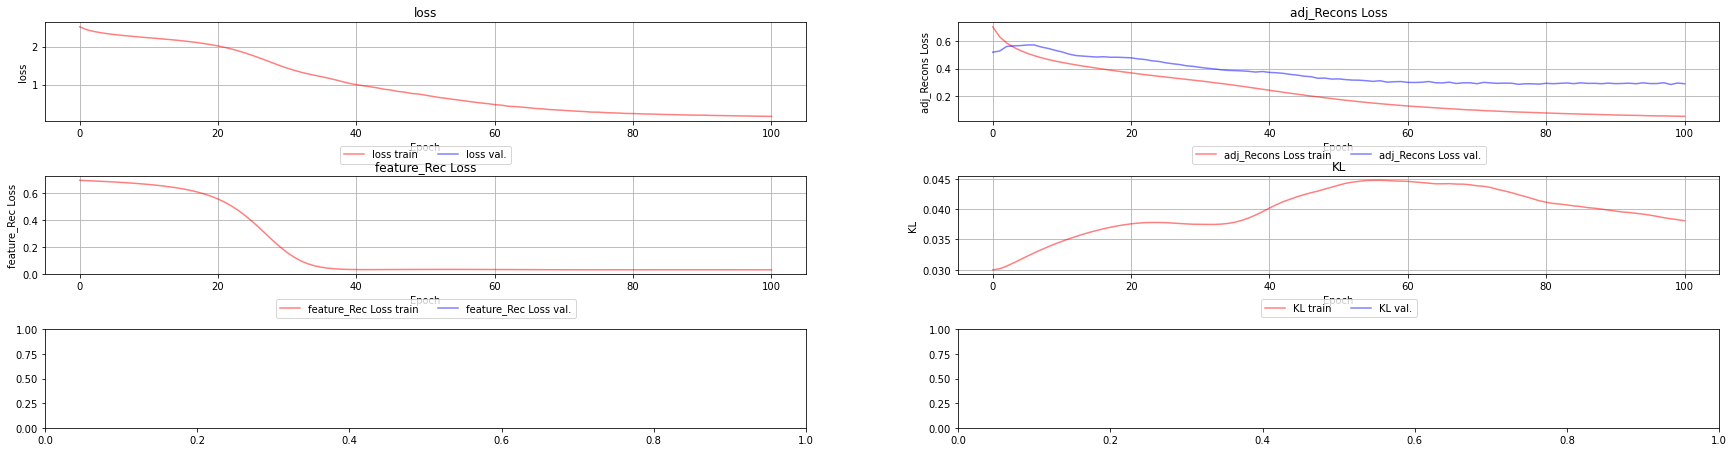
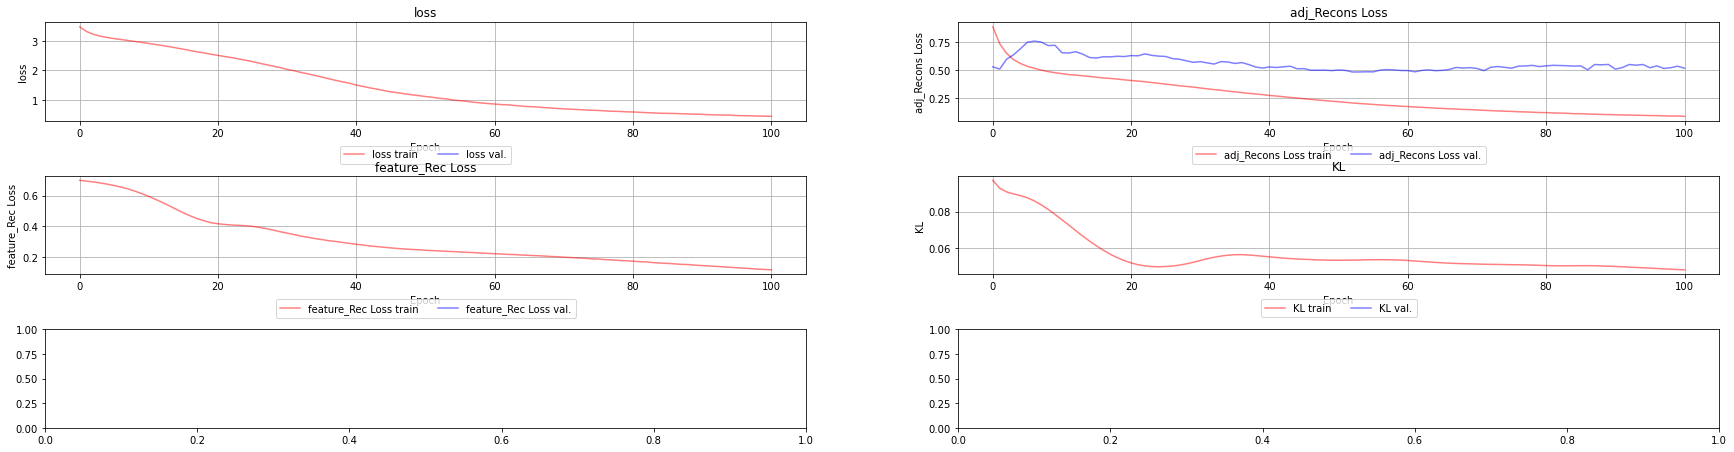
feat decoder only outputs the 5 features

diff --git a/input_data.py b/input_data.py
@@ -248,7 +248,8 @@ def IMDB_PyG():
     features_with_labels = np.array(features[:mapping_details['node_type_to_index_map']['movie'][1]])
     features_with_labels = np.where(features_with_labels >= 1, 1, 0)
     _, important_feat_ids = reduce_node_features(features_with_labels, labels, random_seed = 0)
-    feats_for_reconstruction = np.where(features >= 1, 1, 0)
+    feats_for_reconstruction = np.where(features[:,important_feat_ids] >= 1, 1, 0)
+    features = np.hstack((features,feats_for_reconstruction))
     features = csr_matrix(features)
     return adj, features, labels, edge_labels, circles, mapping_details, important_feat_ids, torch.tensor(feats_for_reconstruction)
 
@@ -416,7 +417,7 @@ def NELL():
 
 
 def acm_homogenized():
-    ds = torch.load("../VGAE/db/acm.pt")
+    ds = torch.load("data/acm.pt")
     ds['y'] =torch.tensor(ds['y'])
     num_nodes = ds['y'].shape[0]
     adjacency_matrix = np.zeros((num_nodes, num_nodes))
@@ -433,7 +434,8 @@ def acm_homogenized():
     label = torch.tensor(ds['y'])
     _, important_feat_ids = reduce_node_features(np.array(features), label, 0)
     important_feats = features[:, important_feat_ids]
-    feats_for_reconstruction = np.where(features >= 1, 1, 0)
+    feats_for_reconstruction = np.where(features[:,important_feat_ids] >= 1, 1, 0)
+    features = np.hstack((features,feats_for_reconstruction))
     features = csr_matrix(features)
     return csr_matrix(adjacency_matrix),features, label, csr_matrix(adjacency_matrix), None, None, important_feat_ids, torch.tensor(feats_for_reconstruction)
     
@@ -456,13 +458,15 @@ def citeseer():
     label = ds['y']
     _, important_feat_ids = reduce_node_features(np.array(features), label, 0)
     important_feats = features[:, important_feat_ids]
-    feats_for_reconstruction = np.where(features >= 1, 1, 0)
+    feats_for_reconstruction = np.where(features[:,important_feat_ids] >= 1, 1, 0)
+    
+    features = np.hstack((features,feats_for_reconstruction))
     features = csr_matrix(features)
     return csr_matrix(adjacency_matrix),features, label, csr_matrix(adjacency_matrix), None, None, important_feat_ids, torch.tensor(feats_for_reconstruction)
 
 
 def cora():
-    ds = Planetoid("\data", "cora")[0]
+    ds = Planetoid("data", "cora")[0]
     num_nodes = ds['y'].shape[0]
     adjacency_matrix = np.zeros((num_nodes, num_nodes))
 
@@ -477,7 +481,8 @@ def cora():
     features = ds['x'].numpy()
     label = ds['y']
     _, important_feat_ids = reduce_node_features(np.array(features), label, 0)
-    feats_for_reconstruction = np.where(features >= 1, 1, 0)
+    feats_for_reconstruction = np.where(features[:,important_feat_ids] >= 1, 1, 0)
+    features = np.hstack((features,feats_for_reconstruction))
     features = csr_matrix(features)
     return csr_matrix(adjacency_matrix),features, label, csr_matrix(adjacency_matrix), None, None, important_feat_ids, torch.tensor(feats_for_reconstruction)
 

diff --git a/RuleLearning.py b/RuleLearning.py
@@ -36,7 +36,7 @@ parser = argparse.ArgumentParser(description='VGAE Framework')
 parser.add_argument('-e', dest="epoch_number", type=int, default=101, help="Number of Epochs")
 parser.add_argument('-v', dest="Vis_step", type=int, default=20, help="model learning rate")
 parser.add_argument('-lr', dest="lr", type=float, default=0.001, help="number of epoch at which the error-plot is visualized and updated")
-parser.add_argument('-dataset', dest="dataset", default="IMDB-PyG",
+parser.add_argument('-dataset', dest="dataset", default="citeseer",
                     help="possible choices are: cora, citeseer, pubmed, IMDB, DBLP, ACM, IMDB-PyG")
 parser.add_argument('-hemogenize', dest="hemogenize", default=False, help="either withhold the layers (edges types) during training or not")
 parser.add_argument('-NofCom', dest="num_of_comunities", type=int, default=64,
@@ -340,7 +340,7 @@ elif decoder == "InnerProductDecoder":  # Kipf
 else:
     raise Exception("Sorry, this Decoder is not Impemented; check the input args")
 
-feature_decoder_model = MLPDecoder(num_of_comunities,features.shape[1])
+feature_decoder_model = MLPDecoder(num_of_comunities,feats_for_reconstruction.shape[1])
 label_decoder_model = NodeClassifier(num_of_comunities, np.unique(node_label).shape[0])
 
 model = GVAE_FrameWork(encoder=encoder_model,

diff --git a/preprocess.py b/preprocess.py
@@ -59,7 +59,7 @@ if torch.cuda.is_available():
 # dataset = Planetoid("\..", "citeseer")
 # dataset = Amazon("\..", "photo")
 # dataa = dataset[0]
-dataa = torch.load("../VGAE/db/acm.pt")
+dataa = torch.load("db/acm.pt")
 
 
 data_bi = dataa
